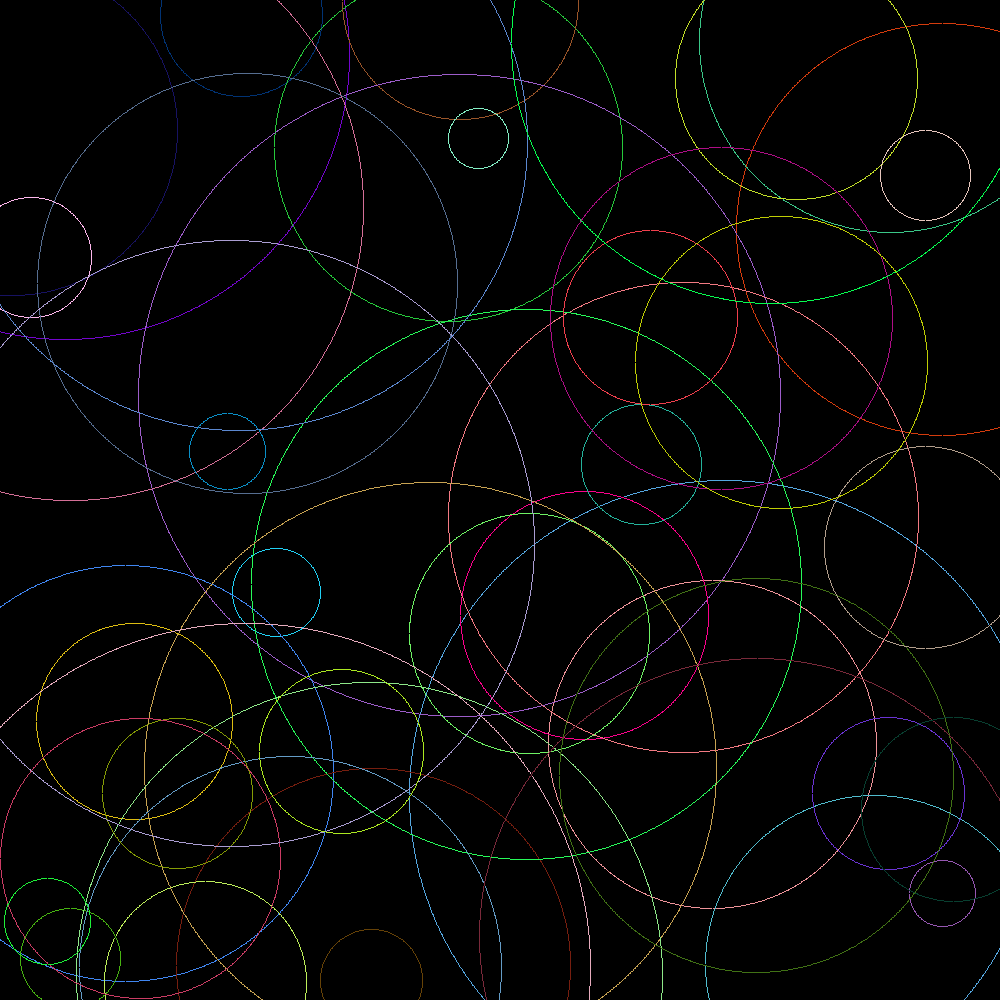
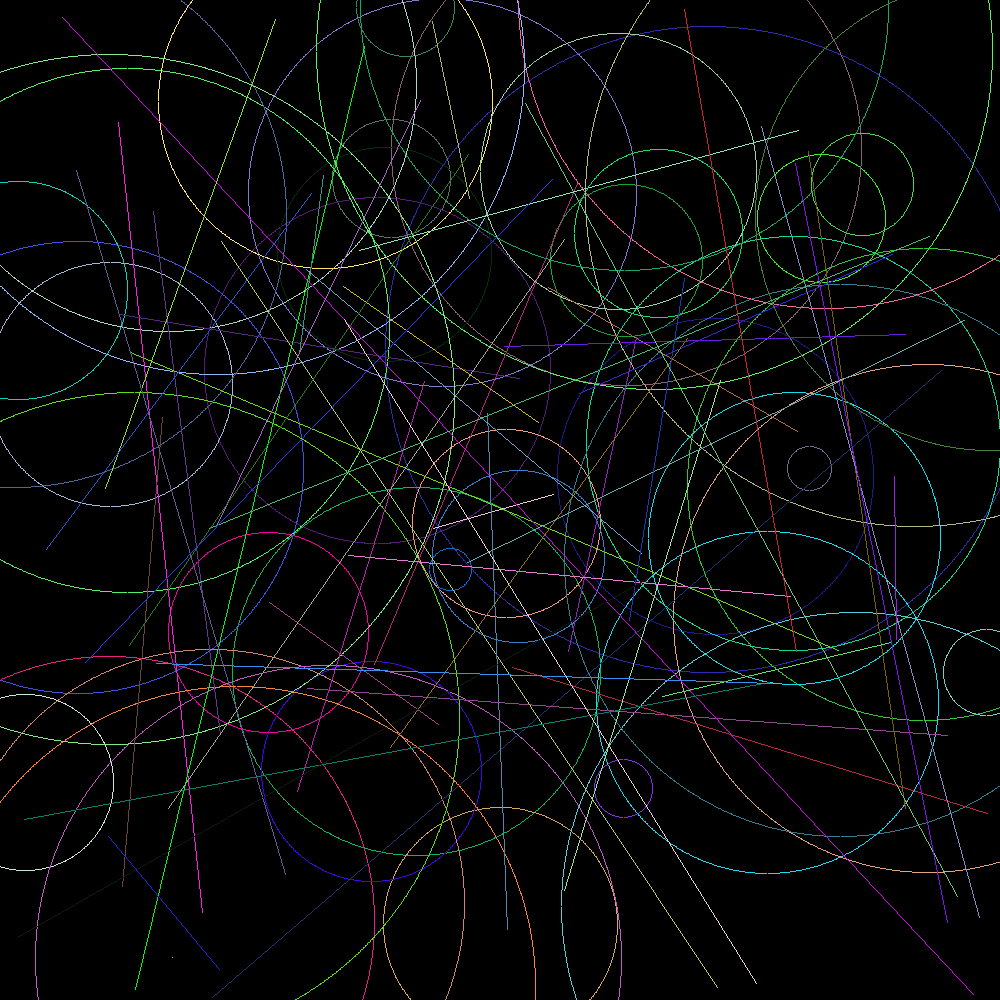
line

diff --git a/src/geometrical_shapes.rs b/src/geometrical_shapes.rs
@@ -93,3 +93,68 @@ impl Drawable for Circle {
         }
     }
 }
+
+// ------------------------------------------------------------------------ LINE ---
+#[derive(Debug, Clone)]
+pub struct Line {
+    pub start: Point,
+    pub end: Point,
+    pub color: Color,
+}
+
+impl Line {
+    pub fn new(start: Point, end: Point) -> Self {
+        let mut rng = rand::thread_rng();
+        let color = Color::rgb(
+            rng.gen_range(1..=255),
+            rng.gen_range(1..=255),
+            rng.gen_range(1..=255),
+        );
+        
+        Line { start, end, color }
+    }
+
+    pub fn random(width: i32, height: i32) -> Self {
+        Line::new(
+            Point::random(width, height),
+            Point::random(width, height),
+        )
+    }
+}
+
+impl Drawable for Line {
+    fn draw(&self, image: &mut dyn Displayable) {
+        let mut x0 = self.start.x;
+        let mut y0 = self.start.y;
+        let x1 = self.end.x;
+        let y1 = self.end.y;
+
+        let dx = (x1 - x0).abs();
+        let dy = (y1 - y0).abs();
+        
+        let sx = if x0 < x1 { 1 } else { -1 };
+        let sy = if y0 < y1 { 1 } else { -1 };
+        
+        let mut err = dx - dy;
+
+        loop {
+            image.display(x0, y0, self.color.clone());
+
+            if x0 == x1 && y0 == y1 {
+                break;
+            }
+
+            let e2 = 2 * err;
+            
+            if e2 > -dy {
+                err -= dy;
+                x0 += sx;
+            }
+            
+            if e2 < dx {
+                err += dx;
+                y0 += sy;
+            }
+        }
+    }
+}

diff --git a/src/main.rs b/src/main.rs
@@ -13,7 +13,10 @@ fn main() {
     for _ in 0..50 {
         geometrical_shapes::Circle::random(image.width, image.height).draw(&mut image);
     }
-
+    //draw lines
+    for _ in 0..50 {
+        geometrical_shapes::Line::random(image.width, image.height).draw(&mut image);
+    }
     raster::save(&image, "image.png").expect("Failed to save image");
 }
 
